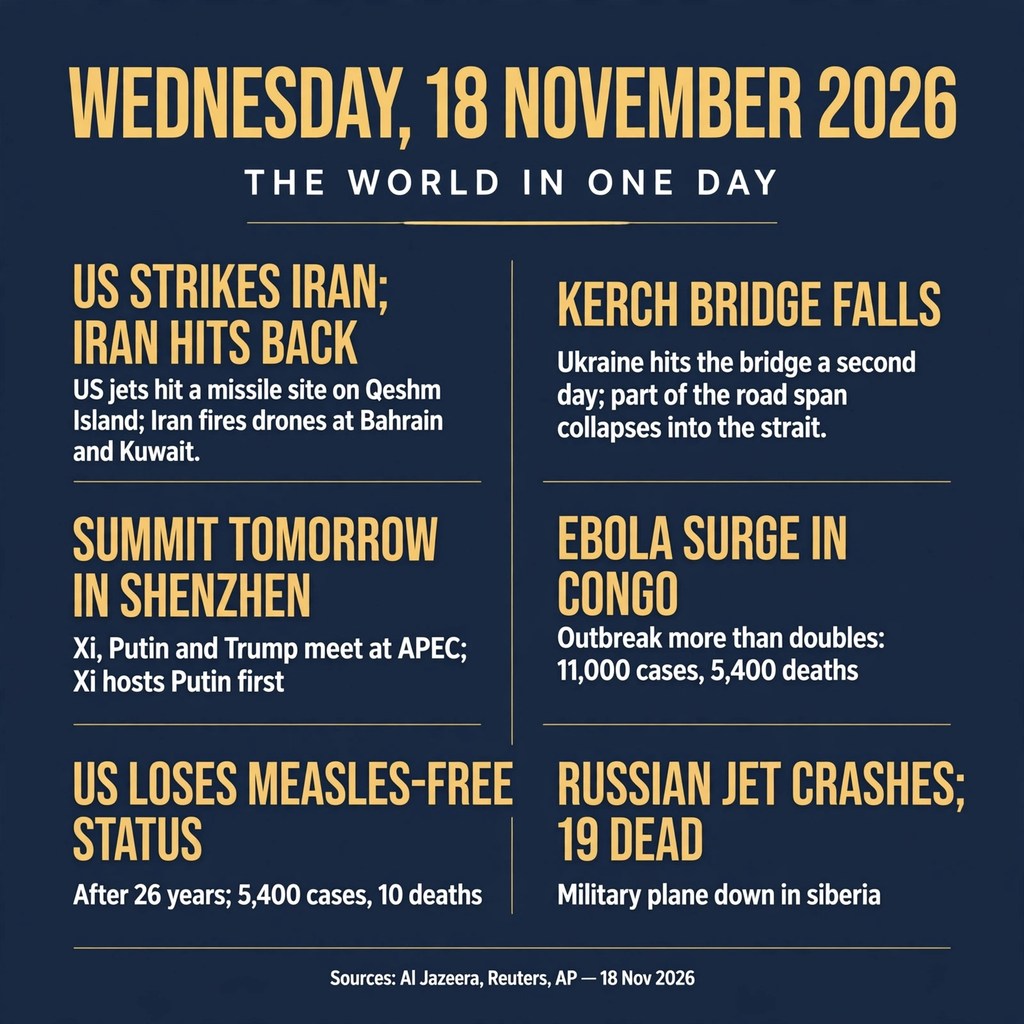
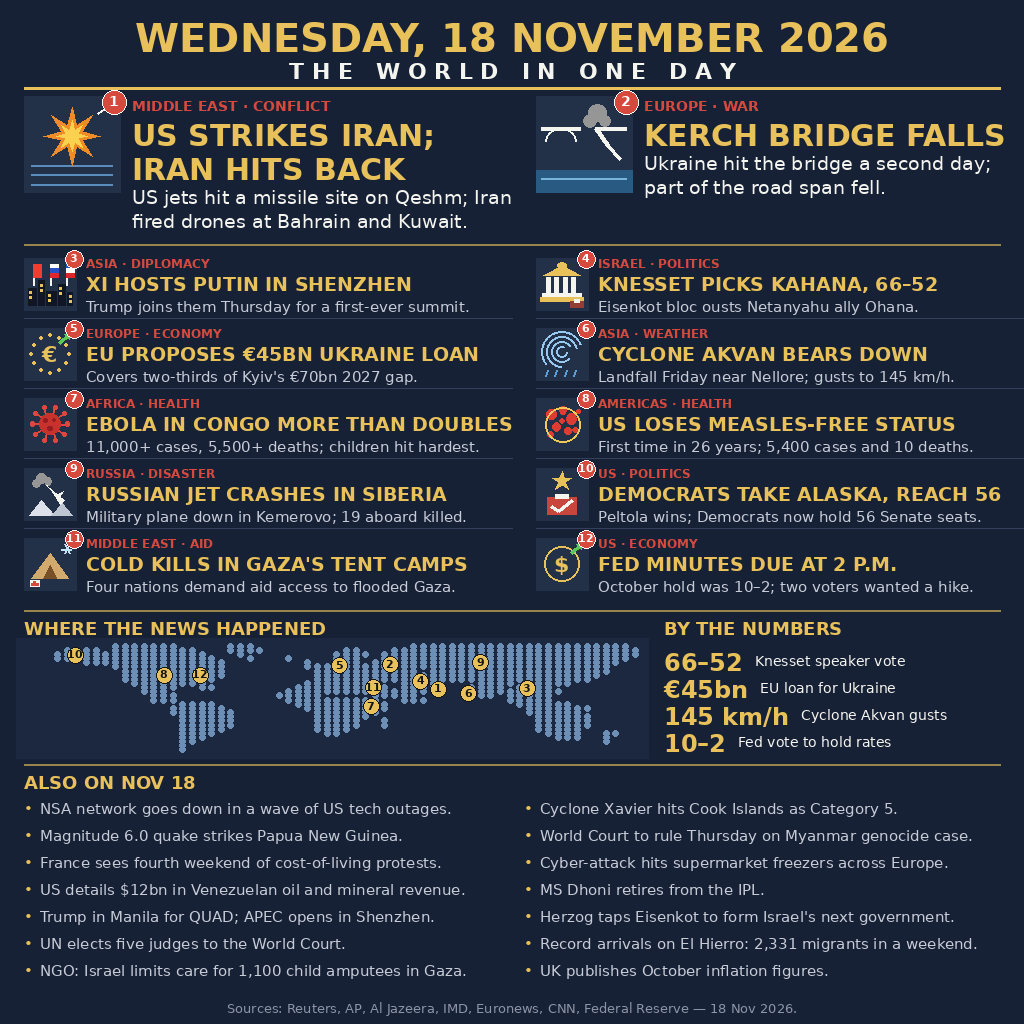
News image 18 Nov 2026: optimised revision — 12 stories + 14 briefs, numbered map, BY THE NUMBERS

diff --git a/main.ts b/main.ts
@@ -1,8 +1,10 @@
-// news-image-20261118 entry (Node 22, standard library only): the image is the
-// entry.png beside this file, a one-page summary of the world's news of
-// Wednesday 18 November 2026, and the program copies it to /output/entry.png.
-// The gate takes a whole PNG or JPEG of at most 1 MiB and 1024 by 1024 pixels,
-// and the judge sees exactly the bytes copied.
+// news-image-20261118 revision (opt-v2; Node 22, standard library only):
+// the image is the entry.png beside this file, a one-page summary of the
+// world's news of Wednesday 18 November 2026, and the program copies it to
+// /output/entry.png. Twelve main stories with a small illustration each, a
+// numbered world-map strip, a BY THE NUMBERS strip and fourteen one-line
+// briefs. The gate takes a whole PNG or JPEG of at most 1 MiB and 1024 by
+// 1024 pixels, and the judge sees exactly the bytes copied.
 //
 // Outside the grader's container, MAKEFUN_OUTPUT_DIR stands in for /output:
 //   mkdir -p out && MAKEFUN_OUTPUT_DIR=out node main.ts
@@ -10,6 +12,8 @@
 import { copyFileSync, existsSync, mkdirSync, statSync } from 'node:fs';
 import { join } from 'node:path';
 
+// The copy is byte-for-byte identical on every run: no network, no clock,
+// no randomness. Both grader runs therefore write the same entry.png.
 const src = new URL('./entry.png', import.meta.url);
 if (!existsSync(src)) {
   throw new Error('entry.png missing beside main.ts');

diff --git a/SOURCES.md b/SOURCES.md
@@ -1,0 +1,117 @@
+# Sources — news-image-20261118 revision (opt-v2)
+
+All facts in the image were checked against reporting of 17–18 Nov 2026.
+Links below are the exact URLs returned by search; nothing was invented.
+
+## Harmonised figures (both editions use the same numbers)
+
+### Dow Jones — 849 points (exact: 848.75)
+- The Dow fell **848.75 points (−1.64%) to 50,759.42** on Tuesday 17 Nov
+  2026. Rounded to the nearest whole point that is **849** — the figure
+  used in both editions (the 17 Nov edition already said 849; the 18 Nov
+  edition said 848 and was corrected).
+- https://tickergrove.com/stories/us-stocks-tuesday-close-fourth-straight-fall-nvidia-earnings-20261117
+  ("The Dow Jones Industrial Average fell 848.75 points, or 1.64%, to
+  50,759.42"; headline: "Dow Drops 849 Points")
+- https://longbridge.com/en/news/305872725
+  ("The Dow Jones Industrial Average closed at 50,759.42, down 848.75
+  points or 1.64%")
+- https://dowjonestoday.net/
+  ("50,759.42 −848.75 (−1.64%) ... closing level for November 17, 2026")
+
+### Ebola, DR Congo — 11,000+ cases, 5,500+ deaths
+- WHO daily epidemiological update, data through 14 Nov 2026:
+  **11,376 confirmed cases, 5,568 deaths** (crude CFR 49%). The
+  17 Nov edition's "11,000+ cases, 5,500+ deaths" matches this; the
+  18 Nov edition's "5,400 deaths" was stale (5,433 deaths as of 10 Nov)
+  and was corrected to 5,500+.
+- https://healthandfamily.in/congo-ebola-outbreak-escalates-at-record-pace-surpassing-11300-cases-and-5500-deaths/
+  (WHO update through 14 Nov: 11,376 cases, 5,568 deaths; Reuters,
+  17 Nov 2026)
+- https://www.who.int/news-room/speeches/item/who-director-general-s-opening-remarks-at-the-member-state-briefing-on-ebola-outbreak-in-the-democratic-republic-of-the-congo---11-november-2026
+  (WHO Director-General, 11 Nov: "Almost 11 000 confirmed cases and
+  more than 5300 deaths")
+- https://healthandfamily.in/six-months-on-dr-congos-bundibugyo-ebola-outbreak-remains-uncontrolled-amid-surveillance-gaps-and-funding-delays/
+  (Africa CDC / Reuters, 15 Nov: more than 11,200 infections and
+  approximately 5,500 deaths)
+
+## Nvidia — removed from the 18 Nov edition
+- Nvidia's Q3 earnings (revenue $115.8bn, +103%) were reported **17 Nov
+  after the bell** (first report since Jensen Huang's resignation).
+  The 18 Nov-dated pieces are follow-ups to that 17 Nov event, so per
+  the review the story was replaced by the Fed minutes (a genuine
+  18 Nov event). The 17 Nov edition keeps Nvidia, correctly dated.
+- Earnings, 17 Nov:
+  - https://forbes-forbescom-live.non-prod.zephrcf.com/sites/fionariley/2026/11/17/nvidia-reports-strong-1158-billion-quarterly-revenue-in-first-earnings-post-jensen-huang/
+    (published 2026-11-17T16:35:26-05:00)
+  - https://www.zacks.com/stock/news/3031446/nvidia-reports-positive-surprises-in-q3?art_rec=blog-ahead_of_wall_street-up_next-ID01-txt-3031446
+    (17 Nov 2026; EPS $2.68, revenue $115.84bn)
+  - https://thepressedpixel.com/tech/nvidia-posts-115-8-billion-quarter-under-interim-ceo-kress/
+    (17 Nov 2026, 5:03 PM ET)
+- 18 Nov follow-ups (reaction to the 17 Nov event, not a new event):
+  - https://www.ajupress.com//view/20261118114138849
+    (posted 18 Nov 2026, 11:55 — interim leaders steadying investors)
+  - https://en.sedaily.com/world/2026/11/18/nvidia-posts-record-revenue-in-first-quarter-without-jensen
+    (18 Nov — "Nvidia said on Nov. 17 that revenue ... rose 103%")
+
+## Fed minutes — replacement story (genuine 18 Nov event)
+- Minutes of the FOMC's 27–28 Oct 2026 meeting released **Wednesday
+  18 Nov 2026 at 2:00 p.m. ET** (Federal Reserve November calendar).
+  The 28 Oct statement held the federal-funds target at 3.75%–4% by a
+  **10–2 vote**; Lisa Cook and Beth Hammack preferred a quarter-point
+  increase.
+- https://www.xauusdglobal.com/blog/fomc-minutes-gold/
+  (minutes out Wed 18 Nov 2026, 2:00 pm New York)
+- https://www.tradingview.com/news/newsbtc:7ba79f1ef094b:0-retail-sales-and-fed-minutes-put-bitcoin-s-rate-outlook-back-in-focus/
+  (minutes due Nov 18, 2 p.m. ET; Oct 28 statement held 3.75%–4% by a
+  10–2 vote; Cook and Hammack preferred a hike)
+- https://www.thestreet.com/crypto/fed/cautious-trader-dumps-millions-ahead-of-nov-18-fomc-minutes-release
+  (FOMC minutes released Nov 18; hold at 3.75%–4%; Cook and Hammack
+  dissented in favour of a hike)
+- UK October inflation, also published 18 Nov (replacement brief):
+  https://edgeormyth.com/week-ahead/2026-11-16/
+  ("On Wednesday 18 November Britain publishes its October inflation
+  figure")
+
+## Fact-checked heavy claims (all verified, kept)
+
+### 1. "US strikes Iran; Iran hits back"
+- Reuters, 18 Nov (published 2026-11-18T00:16:09Z, updated 07:07Z):
+  US fighter jets fired on a Revolutionary Guards missile launch site on
+  Qeshm Island on Tuesday; the Iranian army targeted US drone and
+  missile installations at Kuwait's Ali Al Salem base; Bahrain said it
+  intercepted Iranian aerial attacks for the third time this week.
+  (Body wording softened from "Iran hit Bahrain and Kuwait" to "Iran
+  fired drones at Bahrain and Kuwait" — the attacks were intercepted.)
+- https://ktwb.com/2026/11/17/bahrain-issues-all-clear-after-threat-alert-amid-us-iran-exchanges-of-fire/
+- https://www.businesstoday.com.my/2026/11/18/gulf-nations-on-alert-after-us-strikes-iran-island/
+- https://newscentraltv.com/gulf-states-heighten-alert-after-us-strikes/
+
+### 2. "Democrats take Alaska, reach 56"
+- Reuters, 18 Nov 03:27 UTC: Democrat Mary Peltola won Alaska's US
+  Senate race on Tuesday, defeating Republican incumbent Dan Sullivan,
+  giving her party its ninth flip of the midterms and a commanding
+  **56–44 Senate majority**. AP called it 17 Nov, 10:27 p.m. EST
+  (reported 18 Nov UTC — a genuine 18 Nov story).
+- https://www.reuters.com/world/us/democrat-peltola-wins-alaska-securing-56-44-us-senate-majority-2026-11-18/
+- https://www.wcbe.org/npr-news/2026-11-17/mary-peltola-flips-alaskas-senate-seat-into-democrats-column
+- https://srnnews.com/democrat-peltola-wins-in-alaska-securing-56-44-us-senate-majority/
+
+### 3. "Xi hosts Putin in Shenzhen"
+- Euronews, 18 Nov 05:45 UTC: Xi Jinping and Vladimir Putin holding
+  talks in Shenzhen on Wednesday, a day before the first-ever trilateral
+  summit with US President Donald Trump; their fifth meeting this year.
+  The trilateral is Thursday 19 Nov (confirmed by China's Foreign
+  Ministry on 16 Nov).
+- https://app.ekkow.com/1495665933620970065
+- https://www.thehindubusinessline.com/news/world/xi-trump-putin-to-hold-first-ever-trilateral-meet-on-nov-19/article71706732.ece
+- https://www.cnn.com/2026/11/17/china/trump-us-china-tech-asia-summit-intl-hnk
+
+## Other stories (as in the previous revision)
+Kerch Bridge, Knesset 66–52, EU €45bn Ukraine loan, Cyclone Akvan
+(145 km/h gusts, IMD), US measles-free status lost, Russian jet crash in
+Siberia (Kemerovo, 19 killed), Gaza tent camps — all as reported 18 Nov
+2026 by Reuters / AP / Al Jazeera / IMD / Euronews / CNN. Map dots are
+regional placements on a stylised dotted world map; in the dense Middle
+East cluster they are spread slightly so the numbered dots do not
+overlap.

diff --git a/README.md b/README.md
@@ -6,28 +6,78 @@
 
 One image summing up the world's news of Wednesday 18 November 2026. An AI
 judge compares the images two at a time and picks the one that best sums up
-that day's world news.
+that day's world news. This is the optimised revision of the first entry:
+12 main stories instead of 6, a small illustration per story, a numbered
+world-map strip, a BY THE NUMBERS strip and 14 one-line briefs.
 
-## The day's six stories
+## The day's twelve stories
 
 1. **US strikes Iran; Iran hits back** — US jets hit a missile site on
-   Qeshm Island; Iran fires drones at Bahrain and Kuwait.
-2. **Kerch Bridge falls** — Ukraine hits the bridge a second day; part of
-   the road span collapses into the strait.
-3. **Summit tomorrow in Shenzhen** — Xi, Putin and Trump meet at APEC; Xi
-   hosts Putin first.
-4. **Ebola surge in Congo** — Outbreak more than doubles: 11,000 cases,
-   5,400 deaths.
-5. **US loses measles-free status** — After 26 years; 5,400 cases, 10
-   deaths.
-6. **Russian jet crashes; 19 dead** — Military plane down in Siberia.
+   Qeshm; Iran fired drones at Bahrain and Kuwait.
+2. **Kerch Bridge falls** — Ukraine hit the bridge a second day; part of
+   the road span fell.
+3. **Xi hosts Putin in Shenzhen** — Trump joins them Thursday for a
+   first-ever summit.
+4. **Knesset picks Kahana, 66–52** — Eisenkot bloc ousts Netanyahu ally
+   Ohana.
+5. **EU proposes €45bn Ukraine loan** — Covers two-thirds of Kyiv's €70bn
+   2027 gap.
+6. **Cyclone Akvan bears down** — Landfall Friday near Nellore; gusts to
+   145 km/h.
+7. **Ebola in Congo more than doubles** — 11,000+ cases, 5,500+ deaths;
+   children hit hardest.
+8. **US loses measles-free status** — First time in 26 years; 5,400 cases
+   and 10 deaths.
+9. **Russian jet crashes in Siberia** — Military plane down in Kemerovo;
+   19 aboard killed.
+10. **Democrats take Alaska, reach 56** — Peltola wins; Democrats now hold
+    56 Senate seats.
+11. **Cold kills in Gaza's tent camps** — Four nations demand aid access
+    to flooded Gaza.
+12. **Fed minutes due at 2 p.m.** — October hold was 10–2; two voters
+    wanted a hike.
 
-Sources: Al Jazeera, Reuters, AP — 18 Nov 2026.
+## What changed vs round 1
+
+- 6 stories became 12 main stories plus 14 briefs (breadth was the
+  judge's second criterion; the top images of this bounty carry 21–43).
+- Every main story now has a small illustration and a region/field tag.
+- Added the "WHERE THE NEWS HAPPENED" map strip with numbered dots and
+  the "BY THE NUMBERS" strip (66–52, €45bn, 145 km/h, 10–2).
+- Every main-story card carries a number badge (1–12) matching its dot
+  on the map.
+- Figures harmonised with the 17 Nov edition from the sources: the Dow
+  fell 848.75 points on 17 Nov (rounded to 849), and Ebola stood at
+  11,000+ cases and 5,500+ deaths (WHO data through 14 Nov).
+- Nvidia's $115.8bn quarter was removed: the earnings were reported on
+  17 Nov, so the slot now carries the Fed's October-meeting minutes,
+  released 18 Nov at 2 p.m. ET (10–2 hold, two voters wanted a hike).
+- The three heaviest claims (US strikes on Qeshm, Peltola's Alaska win,
+  Xi hosting Putin in Shenzhen) were fact-checked against Reuters/AP/
+  Euronews reporting of 18 Nov; sources are listed in SOURCES.md.
+- Fixed the round-1 typos: "siberia" is now "Siberia", and every body
+  line now ends with a full stop.
+
+## Also on Nov 18
+
+NSA network outage; Cyclone Xavier hits the Cook Islands as Category 5;
+magnitude 6.0 quake in Papua New Guinea; World Court to rule Thursday on
+the Myanmar genocide case; France's fourth weekend of cost-of-living
+protests; supermarket-freezer cyber-attack across Europe; US details $12bn
+in Venezuelan oil and mineral revenue; MS Dhoni retires from the IPL; Trump
+in Manila for QUAD; Herzog taps Eisenkot to form Israel's next government;
+UN elects five World Court judges; record arrivals on El Hierro; NGO on
+1,100 child amputees in Gaza; UK publishes October inflation figures.
+
+Sources: Reuters, AP, Al Jazeera, IMD, Euronews, CNN, Federal Reserve —
+18 Nov 2026. Full links in SOURCES.md.
 
 ## How it works
 
 `main.ts` (Node 22, standard library only) copies `entry.png` (1024×1024,
-678 KB) to `/output/entry.png`. Run it locally with:
+165 KB) to `/output/entry.png`. The image was drawn with PIL by
+`draw_news_image_20261118_v2.py` (flat vector-style illustrations, no AI
+text). Run it locally with:
 
 ```sh
 mkdir -p out && MAKEFUN_OUTPUT_DIR=out node main.ts
